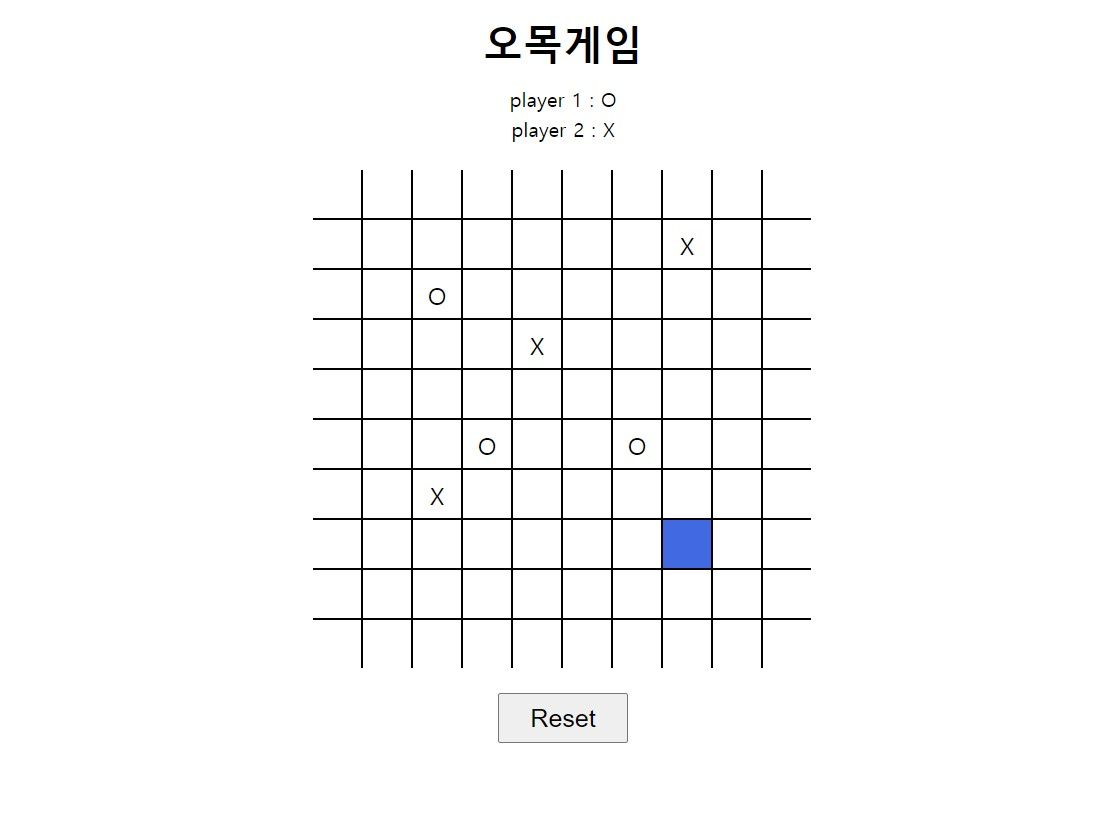
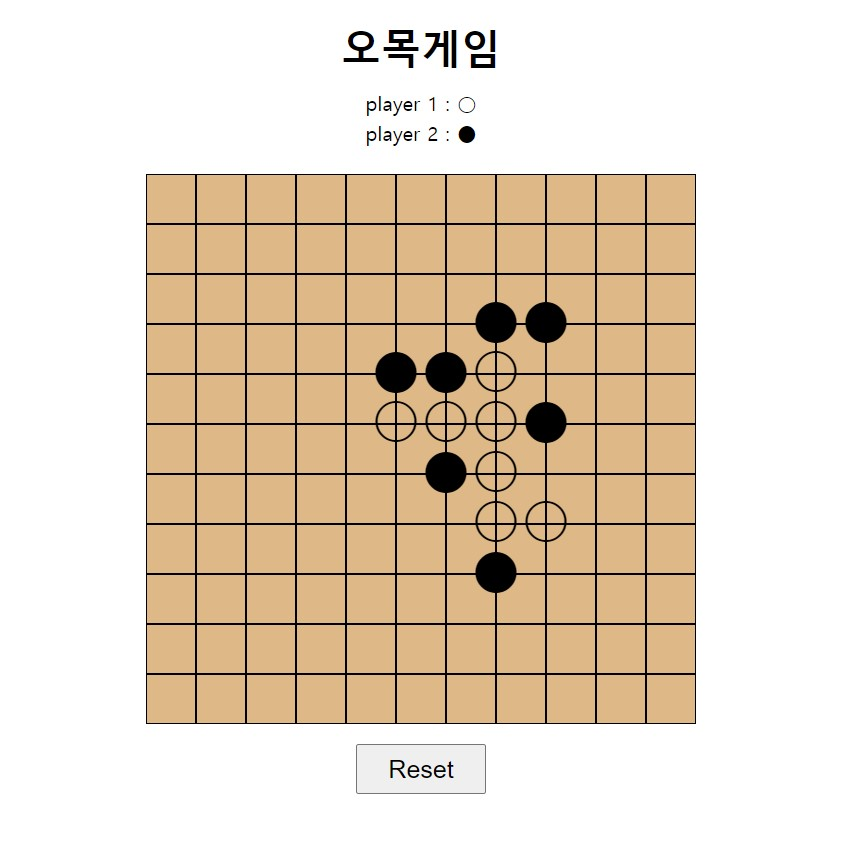
update

diff --git a/omok/omok.js b/omok/omok.js
@@ -5,9 +5,23 @@ let click = 0; // === 100 && won === 0 draw
 
 const root = document.getElementById("root");
 const map = document.createElement("div");
+const map2 = document.createElement("div");
 map.setAttribute("class", "map");
+map2.setAttribute("class", "map2");
 
+setMap2();
 setMap();
+function setMap2() {
+    for (let i = 0; i < size + 1; i++) {
+        for (let j = 0; j < size + 1; j++) {
+            const item2 = document.createElement("div");
+            item2.setAttribute("class", "box2");
+
+            map2.append(item2);
+        }
+        root.append(map2);
+    }
+}
 
 function setMap() {
     for (let i = 0; i < size; i++) {
@@ -20,7 +34,7 @@ function setMap() {
             item.addEventListener("click", e => {
                 if (item.innerText === "") {
                     click++;
-                    item.innerText = (turn === 1 ? "O" : "X");
+                    item.innerText = (turn === 1 ? "○" : "●");
 
                     winCondition();
 
@@ -61,7 +75,7 @@ function checkrow() {
             const target = `y${i}x${j}`;
             const box = map.querySelector(`#${target}`);
             const text = box.innerText;
-            if (text === (turn === 1 ? "O" : "X")) {
+            if (text === (turn === 1 ? "○" : "●")) {
                 count++;
                 console.log("count : ", count);
             } else {
@@ -84,7 +98,7 @@ function checkcolumn() {
             const box = map.querySelector(`#${target}`);
             const text = box.innerText;
 
-            if (text === (turn === 1 ? "O" : "X")) {
+            if (text === (turn === 1 ? "○" : "●")) {
                 count++;
                 console.log("count : ", count);
             } else {
@@ -108,7 +122,7 @@ function checkdiagonal() {
                 const box = map.querySelector(`#${target}`);
                 const text = box.innerText;
 
-                if (text === (turn === 1 ? "O" : "X")) {
+                if (text === (turn === 1 ? "○" : "●")) {
                     count++;
                     console.log("count : ", count);
                 } else {
@@ -134,7 +148,7 @@ function checkreverse() {
                 const box = map.querySelector(`#${target}`);
                 const text = box.innerText;
 
-                if (text === (turn === 1 ? "O" : "X")) {
+                if (text === (turn === 1 ? "○" : "●")) {
                     count++;
                     console.log("count : ", count);
                 } else {

diff --git a/omok/omok.css b/omok/omok.css
@@ -22,48 +22,46 @@ body{
     margin-top: 5px;
 }
 .player2{
-    margin-bottom: 15px;
+    margin-bottom: 30px;
 }
 
 .map{
-    display: flex;
-    flex-direction: row;
-    flex-wrap: wrap;
-    width: 500px;
-    margin-top: 15px;
-    margin-bottom: 25px;
+    display: grid;
+    grid-template-columns: repeat(10, 1fr);
+    position: absolute;
+    top: 47%;
+    left: 50%;
+    transform: translate(-50%, -50%);
 }
 
 .box{
-    width: 48px;
-    height: 48px;
-    font-size: 24px;
+    width: 50px;
+    height: 50px;
+    font-size: 50px;
     text-align: center;
     line-height: 50px;
 }
 
 .box:hover {
-    background-color: royalblue;
+    cursor: pointer;
 }
 
-.map>.box:not(:nth-child(n+91)){
-    border-bottom: solid 1px black;
+.map2{
+    display: grid;
+    grid-template-columns: repeat(11, 1fr);
+    position: relative;
 }
 
-.map>.box:not(:nth-child(-n+10)){
-    border-top: solid 1px black;
-}
-
-.map>.box:not(:nth-child(10n)){
-    border-right: solid 1px black;
-}
-
-.map>.box:not(:nth-child(10n+1)){
-    border-left: solid 1px black;
+.box2{
+    background-color: burlywood;
+    border: 1px solid black;
+    width: 48px;
+    height: 48px;
 }
 
 #reset{
     width: 130px;
     height: 50px;
     font-size: 25px;
+    margin-top: 20px;
 }

diff --git a/omok/index.html b/omok/index.html
@@ -17,8 +17,8 @@
     두 개의 맵을 겹쳐서 표현할 수 있음 -->
 
     <h1 class="title"> 오목게임 </h1>
-    <div class="player1"> player 1 : O</div>
-    <div class="player2"> player 2 : X</div>
+    <div class="player1"> player 1 : ○</div>
+    <div class="player2"> player 2 : ●</div>
     <div id="root">
     </div>
     <!-- table 2개 position 값 absolute -->
